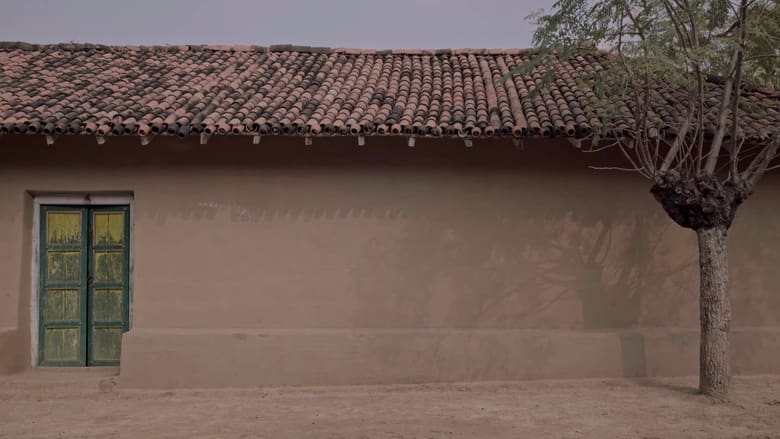
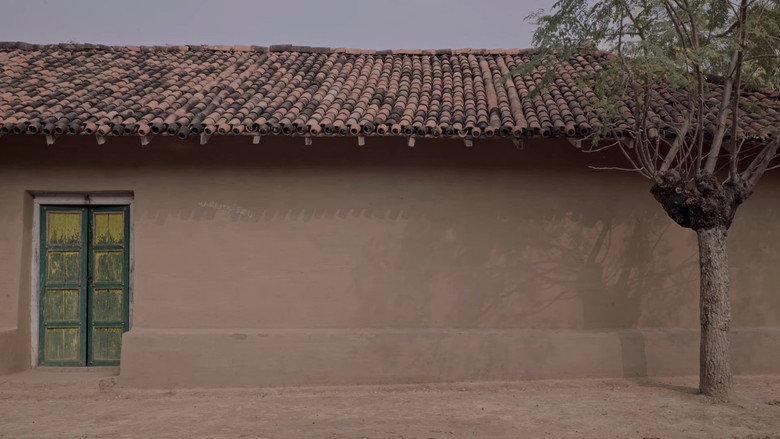
Improved the language pages

Changed region(s): [[0.5846, 0.1185, 0.6154, 0.1777], [0.8, 0.0, 0.8308, 0.0296], [0.3692, 0.2073, 0.4, 0.2369]]

diff --git a/themes/guild/layouts/language/page.html b/themes/guild/layouts/language/page.html
@@ -1,11 +1,12 @@
 {{- define "main" }}
     <div class="container-fluid">
-        <img src="/images/language-banner-2.png" class="img-fluid w-100 mb-5" />
+        <img src="/images/language-banner.png" class="img-fluid w-100 mb-5" />
     </div>    
     <div class="container">
         <div class="row">
             <div class="col-lg-10 offset-lg-1">
-                <h2 class="section-head text-center my-5">Click on a poster to read all reviews of that film</h2>
+                <h2 class="section-head text-center my-5">Films in the {{ .LinkTitle }} Language</h2>
+                <h6 class="genre-style mb-3">CLICK ON THE FILM POSTER TO READ ALL REVIEWS OF THE FILM</h6>
                 <div class="row">
                     {{- with .Resources.Get (printf "%s-json" .LinkTitle) }}
                         {{- range sort (transform.Unmarshal .Content) }}

diff --git a/themes/guild/layouts/_partials/shoutout.html b/themes/guild/layouts/_partials/shoutout.html
@@ -4,6 +4,6 @@
 <div class="container-fluid" style="padding-top: 30px;">
 	<p class="shoutout d-flex justify-content-center text-center">
 		{{ lang.FormatNumberCustom 0 $reviews "- . ," }} Reviews &#x25cf; {{ lang.FormatNumberCustom 0 $films "- . ," }} Films/Shows &#x25cf; {{ $critics }} Top Critics <br />
-		30 Languages &#x25cf; And Growing!
+		31 Languages &#x25cf; And Growing!
 	</p>
 </div>

diff --git a/themes/guild/layouts/language/list.html b/themes/guild/layouts/language/list.html
@@ -1,6 +1,6 @@
 {{- define "main" }}
 <div class="container-fluid">
-    <img src="/images/language-banner-1.png" class="img-fluid w-100 mb-5" />
+    <img src="/images/language-banner.png" class="img-fluid w-100 mb-5" />
 </div>    
 <div class="container">
         <div class="row">
